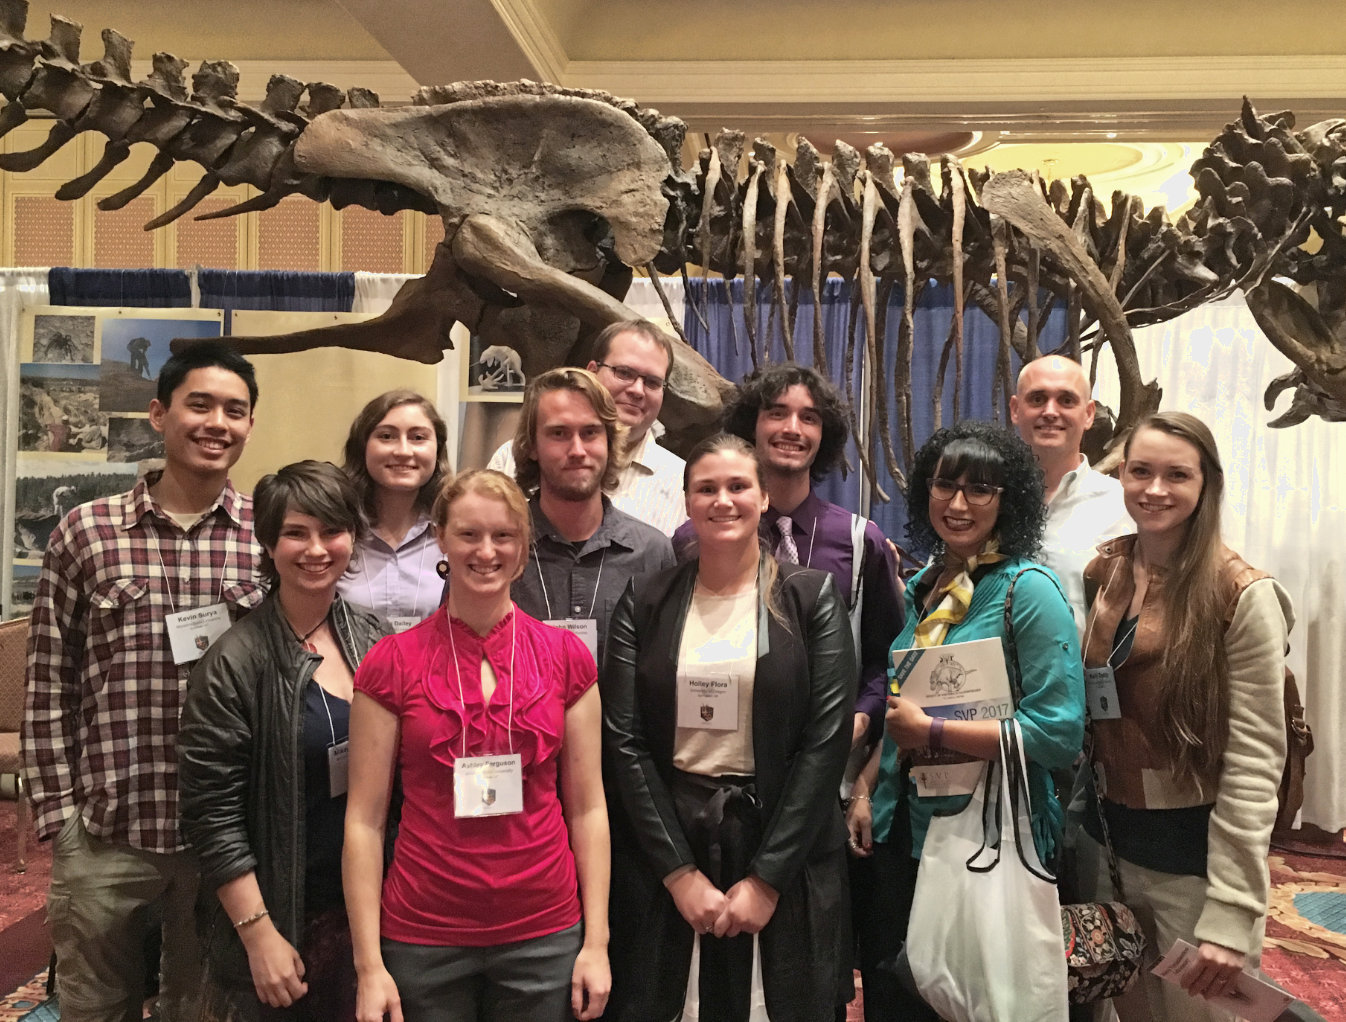
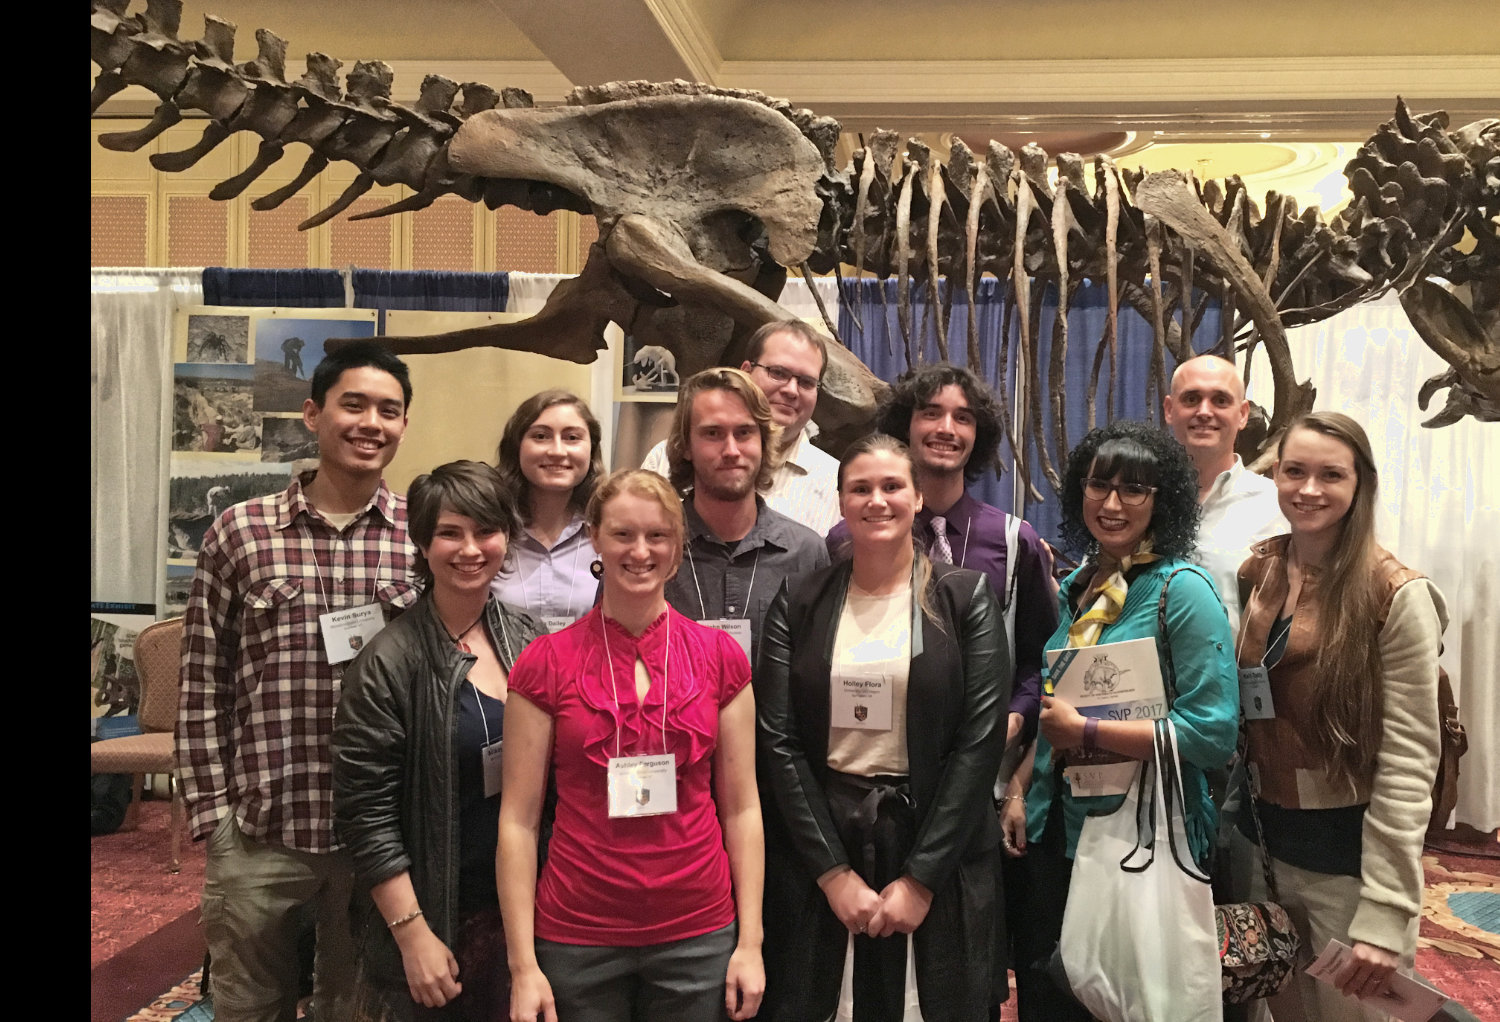
edits

diff --git a/_pages/research.md b/_pages/research.md
@@ -27,15 +27,15 @@ In collaboration with [Andrew Meade](http://www.reading.ac.uk/biologicalsciences
 *The figure to the right shows an analysis of lever arm (gear ratio) evolution for the primary forelimb retractor muscles in dinosaurs. Warmer colors are increased, and cooler colors are decreased, evolutionary rates. Numbers indicate the median estimated rate shifts (posterior probability). Silhouette colors correspond to points in the lower-right plot. Note that despite being smaller, the arms of small, feathered dinosaurs provided more torque and evolved at faster rates. Despite orders-of-magnitude increases in body size, the lever arms of gigantic sauropods evolve gradually.*
 
 ### Paleobiology & Paleogenomics
-![]({{ site.url }}{{ site.baseurl }}/images/respic/living_fossils.png){: style="width: 550px; float: left; border: 10px"}
+![]({{ site.url }}{{ site.baseurl }}/images/respic/living_fossils.png){: style="width: 600px; float: left; border: 10px"}
 
 We are interested in the macroevolutionary processes that give rise to biological traits in extinct species, including genome biology and physiology. We pursue this by integrating molecular, genomic, and fossil data. For example, Chris' work on the coelacanth genome revealed genetic adaptations in the urea cycle that allowed the water-to-land transition in vertebrates roughly 375 mya, consistent with fossil evidence (Amemiya et al., Nature 2013). Bone innervation was also crucial for the vertebrate diaspora onto land. It is essential in regulating bone growth, metabolism, and the perception of touch and pain, yet we know virtually nothing of bone innervation outside humans. We are currently developing a comparative study of bone innervation using micro-CT scans of bone from extant species and fossil vertebrates. Lastly, we are currently developing a project focused on “living fossils” that will shed light on why some lineages evolve so slowly. This follows recent work Chris did on the slowly evolving genome of the tuatara, a 'living fossil' reptile endemic to New Zealand (Gemmel et al., Nature 2020).
 
-*The figure to the left shows a graphical abstract for our Living Fossils project. Why do some lineages evolve very slowly (1st panel on the left)? We can answer this by integrating data from paleontology, genomics, and ecology (2nd panel). Bayesian models combine these data using computational platforms in Python (3rd panel). We expect to develop novel models and discover traits associated with evolutionary stasis, as well as evolutionary processes relevant to biodiversity and climate change (4th panel).*
+*The figure to above shows a graphical abstract for our Living Fossils project. Why do some lineages evolve very slowly (1st panel on the left)? We can answer this by integrating data from paleontology, genomics, and ecology (2nd panel). Bayesian models combine these data using computational platforms in Python (3rd panel). We expect to develop novel models and discover traits associated with evolutionary stasis, as well as evolutionary processes relevant to biodiversity and climate change (4th panel).*
 
 
 ### Student Participation
-![]({{ site.url }}{{ site.baseurl }}/images/respic/team,.jpg){: style="width: 400px; float: left; border: 10px"}
+![]({{ site.url }}{{ site.baseurl }}/images/respic/team,.jpg){: style="width: 200px; float: right; border: 10px"}
 Students are welcome in our lab – no experience needed. You can learn the fundamentals of research on exciting topics like evolution, paleobiology, dinosaurs, physiology, genomics, and data science. You will have opportunities to become proficient in data science tools like Python, R, and computer modelling, which are in high demand across academia and industry. You can expect to be supported along a gradual progression of responsibility, starting with small, semester-length projects that focus on fundamental technical skills, knowledge, and research culture. And if you are dedicated and have grit, you could contribute to scientific publications. If this sounds interesting, drop an email to <a href="mailto:c.l.organ@reading.ac.uk">Chris</a>.
 
 
